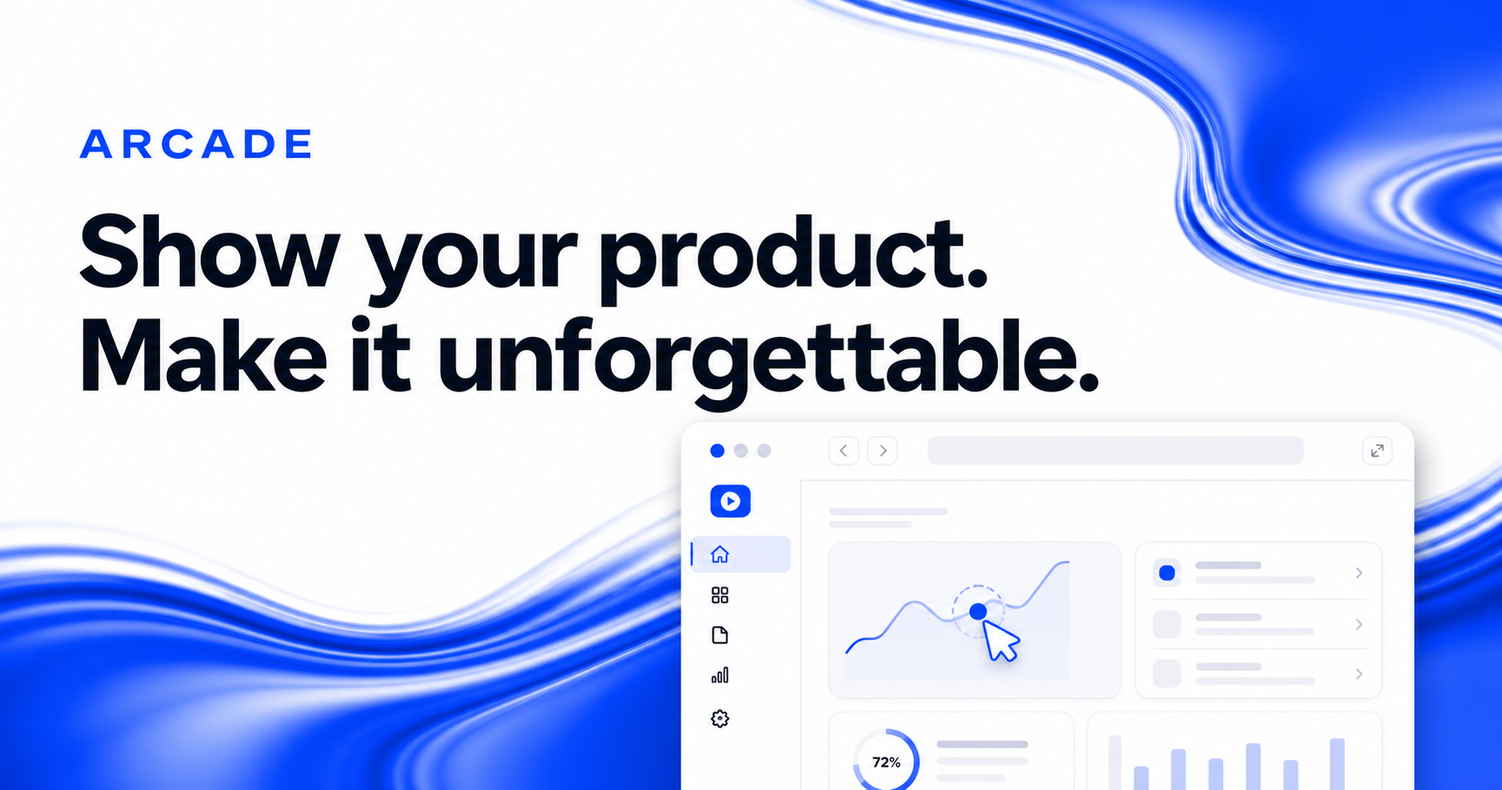
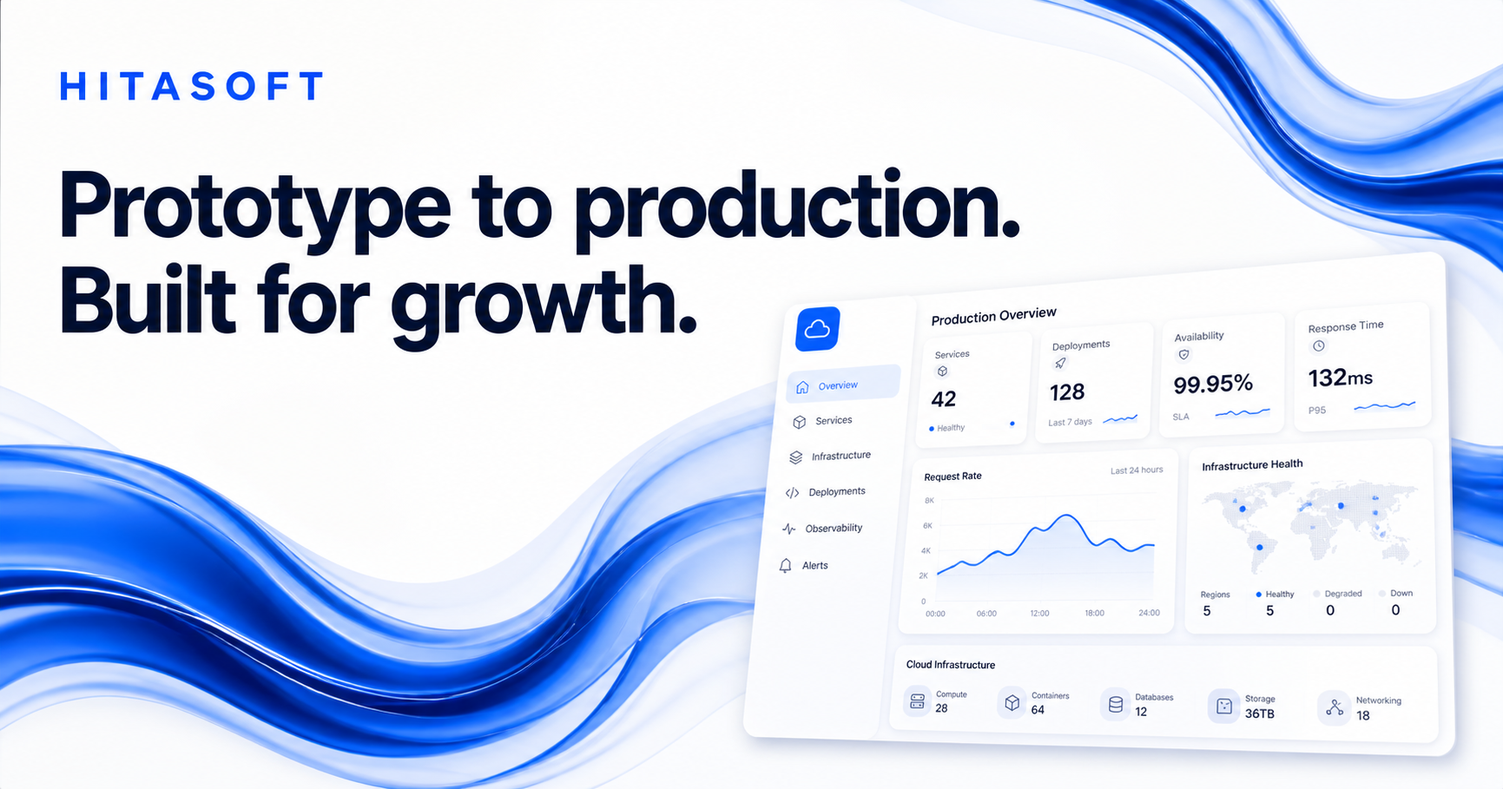
Rebrand site for Hitasoft

diff --git a/app/page.tsx b/app/page.tsx
@@ -10,37 +10,48 @@ const Check = () => <span className="check" aria-hidden="true">✓</span>;
 
 const PlayIcon = () => <span className="play-icon" aria-hidden="true">▶</span>;
 
+const services = [
+  ["01", "Website Development", "Build fast, secure, and scalable websites engineered to deliver seamless user experiences and measurable business growth."],
+  ["02", "Artificial Intelligence Solutions", "Use AI-powered systems to automate processes, uncover insights, and enable better data-driven decisions."],
+  ["03", "Mobile Application Development", "Design and develop high-performance mobile apps that engage users, streamline operations, and scale with your business."],
+  ["04", "Cloud Infrastructure Solutions", "Deploy secure, scalable cloud environments that improve flexibility, optimize costs, and support rapid growth."],
+  ["05", "Custom Software Development", "Create software tailored to your workflows—improving efficiency, automation, flexibility, and long-term productivity."],
+  ["06", "Cybersecurity Services", "Safeguard your digital ecosystem with advanced security frameworks, proactive threat monitoring, and risk mitigation."],
+  ["07", "Data Analytics", "Transform raw data into actionable intelligence that drives strategic planning and competitive advantage."],
+  ["08", "UI/UX Design", "Craft intuitive, visually compelling interfaces that elevate user satisfaction and strengthen brand perception."],
+  ["09", "Server Maintenance & Development", "Ensure maximum uptime and performance with reliable server management, monitoring, and continuous optimization."],
+];
+
 export default function Home() {
   const [mode, setMode] = useState<"demo" | "video">("demo");
-  const [activeTab, setActiveTab] = useState("Create");
+  const [activeTab, setActiveTab] = useState("Software");
   const [url, setUrl] = useState("");
   const [message, setMessage] = useState("");
 
   function submitUrl(event: FormEvent<HTMLFormElement>) {
     event.preventDefault();
-    setMessage(url.trim() ? "Your workspace is ready — let’s build your first Arcade." : "Paste a product link to get started.");
+    setMessage(url.trim() ? "Thank you — our team will get in touch to discuss your project." : "Enter your work email to start a conversation.");
   }
 
   return (
     <main>
       <header className="site-header">
         <nav className="nav-shell" aria-label="Primary navigation">
-          <a className="brand" href="#top" aria-label="Arcade home">
+          <a className="brand" href="#top" aria-label="Hitasoft home">
             <span className="brand-mark"><i /><i /><i /></span>
-            <span>Arcade</span>
+            <span>Hitasoft</span>
           </a>
           <div className="nav-links">
-            <a href="#platform">Platform <span>⌄</span></a>
-            <a href="#solutions">Solutions <span>⌄</span></a>
-            <a href="#resources">Resources <span>⌄</span></a>
-            <a href="#pricing">Pricing</a>
+            <a href="#platform">What we do</a>
+            <a href="#solutions">Services <span>⌄</span></a>
+            <a href="#resources">Why Hitasoft</a>
+            <a href="#pricing">Engagement</a>
           </div>
           <div className="nav-actions">
-            <a className="text-link" href="#login">Log in</a>
-            <a className="button button-ghost nav-sales" href="mailto:sales@arcade.so">Talk to sales</a>
-            <a className="button button-primary" href="#create">Start for free</a>
+            <a className="button button-ghost nav-sales" href="mailto:hello@hitasoft.com">Talk to our team</a>
+            <a className="button button-primary" href="#create">Start a project</a>
           </div>
-          <a className="mobile-cta" href="#create">Start free</a>
+          <a className="mobile-cta" href="#create">Start a project</a>
         </nav>
       </header>
 
@@ -50,33 +61,33 @@ export default function Home() {
         <div className="ripple ripple-three" />
         <div className="hero-content">
           <a className="announcement" href="#resources">
-            <strong>Meet Arcades for teams</strong><span /><em>Explore what’s new</em><Arrow />
+            <strong>Prototype to production</strong><span /><em>Built for ambitious teams</em><Arrow />
           </a>
-          <p className="eyebrow">Interactive product storytelling</p>
-          <h1>Show your product.<br />Make it <span>unforgettable.</span></h1>
-          <p className="hero-copy">Create interactive demos that explain your product in seconds — beautiful, personal, and built to convert.</p>
+          <p className="eyebrow">What we do</p>
+          <h1>Unlock the power of<br /><span>young innovators.</span></h1>
+          <p className="hero-copy">Accelerate your journey from prototype to production. From early technical errors to production-critical challenges, Hitasoft ensures seamless execution at every stage.</p>
 
-          <div className="mode-switch" role="group" aria-label="Choose content type">
-            <button className={mode === "demo" ? "active" : ""} onClick={() => setMode("demo")}><span>◫</span> Interactive demo</button>
-            <button className={mode === "video" ? "active" : ""} onClick={() => setMode("video")}><span>▷</span> Product video</button>
+          <div className="mode-switch" role="group" aria-label="Choose project stage">
+            <button className={mode === "demo" ? "active" : ""} onClick={() => setMode("demo")}><span>◫</span> Prototype support</button>
+            <button className={mode === "video" ? "active" : ""} onClick={() => setMode("video")}><span>▷</span> Production scale</button>
           </div>
 
           <form className="url-form" id="create" onSubmit={submitUrl}>
-            <label className="sr-only" htmlFor="product-url">Product URL</label>
-            <input id="product-url" value={url} onChange={(event) => setUrl(event.target.value)} placeholder={mode === "demo" ? "Paste your product URL" : "Paste a video or product URL"} />
-            <button aria-label="Create your Arcade" type="submit"><Arrow /></button>
+            <label className="sr-only" htmlFor="product-url">Work email</label>
+            <input id="product-url" type="email" value={url} onChange={(event) => setUrl(event.target.value)} placeholder="Enter your work email" />
+            <button aria-label="Start a conversation with Hitasoft" type="submit"><Arrow /></button>
           </form>
-          <p className="form-note" aria-live="polite">{message || "Free forever · No credit card required"}</p>
+          <p className="form-note" aria-live="polite">{message || "A focused engineering team · Clear delivery from day one"}</p>
 
           <div className="hero-demo-wrap">
             <div className="float-card float-left">
               <span className="mini-icon">✦</span>
-              <div><b>AI-powered</b><small>Built in moments</small></div>
+              <div><b>Production ready</b><small>Engineered to scale</small></div>
             </div>
             <div className="browser-frame">
               <div className="browser-bar">
                 <div className="window-dots"><i /><i /><i /></div>
-                <div className="browser-address"><span>⌁</span> arcade.software/share/product-tour</div>
+                <div className="browser-address"><span>⌁</span> console.hitasoft.com/project-health</div>
                 <div className="browser-more">•••</div>
               </div>
               <div className="demo-screen">
@@ -86,51 +97,51 @@ export default function Home() {
                   <div className="side-bottom">⚙</div>
                 </aside>
                 <div className="demo-main">
-                  <div className="demo-top"><div><small>Workspaces / Growth</small><b>Q3 product launch</b></div><button>Share</button></div>
+                  <div className="demo-top"><div><small>Delivery / Production</small><b>Project health dashboard</b></div><button>Deploy</button></div>
                   <div className="demo-canvas">
                     <div className="canvas-head"><span>PROJECT OVERVIEW</span><button>+ Add view</button></div>
-                    <h3>Everything your team needs,<br />in one clear view.</h3>
-                    <div className="mini-stats"><div><small>Active projects</small><b>24</b><em>↑ 12%</em></div><div><small>Tasks completed</small><b>1,842</b><em>↑ 18%</em></div><div><small>Team velocity</small><b>94%</b><em>↑ 8%</em></div></div>
-                    <div className="chart-card"><div className="chart-head"><b>Product adoption</b><span>Last 30 days⌄</span></div><div className="chart-bars">{[34,52,44,70,62,82,72,93,85,100,92,110].map((height, index) => <i key={index} style={{height}} />)}</div></div>
+                    <h3>From prototype uncertainty<br />to production confidence.</h3>
+                    <div className="mini-stats"><div><small>Release score</small><b>73/100</b><em>↑ Stable</em></div><div><small>Systems online</small><b>24</b><em>100% uptime</em></div><div><small>Delivery velocity</small><b>94%</b><em>↑ 8%</em></div></div>
+                    <div className="chart-card"><div className="chart-head"><b>Infrastructure performance</b><span>Last 30 days⌄</span></div><div className="chart-bars">{[34,52,44,70,62,82,72,93,85,100,92,110].map((height, index) => <i key={index} style={{height}} />)}</div></div>
                     <button className="hotspot"><PlayIcon /></button>
-                    <div className="tooltip-card"><b>Start with your overview</b><p>See your team’s progress at a glance.</p><span>1 of 4 <strong>Next →</strong></span></div>
+                    <div className="tooltip-card"><b>Production confidence</b><p>Monitor performance, security, and delivery in one place.</p><span>Live <strong>View report →</strong></span></div>
                   </div>
                 </div>
               </div>
             </div>
-            <div className="float-card metric-float"><span className="trend">↗</span><div><b>38% more signups</b><small>From one interactive demo</small></div></div>
+            <div className="float-card metric-float"><span className="trend">↗</span><div><b>Faster time to market</b><small>Prototype to production</small></div></div>
           </div>
         </div>
       </section>
 
       <section className="logo-strip" aria-label="Customer logos">
-        <p>Loved by modern teams at</p>
-        <div><b>Atlassian</b><b>Notion</b><b>Webflow</b><b>Zapier</b><b>Mercury</b><b>Dropbox</b></div>
+        <p>One technology partner across the full delivery lifecycle</p>
+        <div><b>Strategy</b><b>Design</b><b>Build</b><b>Cloud</b><b>Security</b><b>Scale</b></div>
       </section>
 
       <section className="section intro-section" id="platform">
         <div className="section-heading">
-          <p className="eyebrow">The platform</p>
-          <h2>Your product deserves<br />more than a screenshot.</h2>
-          <p>Build engaging, on-brand experiences that help every buyer understand the value — before they ever book a call.</p>
+          <p className="eyebrow">End-to-end IT solutions</p>
+          <h2>Technology services<br />designed for your growth.</h2>
+          <p>We deliver innovative, scalable, and reliable IT solutions that help businesses operate smarter, grow faster, and stay competitive in a rapidly evolving digital world.</p>
         </div>
-        <div className="pill-tabs" role="tablist" aria-label="Platform features">
-          {["Create", "Personalize", "Share", "Measure"].map((tab) => (
+        <div className="pill-tabs" role="tablist" aria-label="Core service areas">
+          {["Software", "Cloud", "Security", "Integration"].map((tab) => (
             <button key={tab} role="tab" aria-selected={activeTab === tab} className={activeTab === tab ? "active" : ""} onClick={() => setActiveTab(tab)}>{tab}</button>
           ))}
         </div>
         <div className="feature-panel">
           <div className="feature-copy">
             <span className="step-number">01</span>
-            <h3>{activeTab} in minutes, not days.</h3>
-            <p>{activeTab === "Create" ? "Capture your product as you click. Arcade automatically turns each step into a polished, guided story." : activeTab === "Personalize" ? "Adapt every story to the audience, account, or campaign without rebuilding your demo." : activeTab === "Share" ? "Publish everywhere your buyers are — from your website and emails to social and sales rooms." : "See exactly where viewers engage, hesitate, and convert so your next story performs even better."}</p>
-            <div className="check-grid"><span><Check />No-code editor</span><span><Check />Brand themes</span><span><Check />AI copy polish</span><span><Check />Instant publishing</span></div>
-            <a className="inline-link" href="#create">Start creating <Arrow /></a>
+            <h3>{activeTab} built around your goals.</h3>
+            <p>{activeTab === "Software" ? "We design and build scalable, high-performance software tailored to your business goals—enabling flexibility, efficiency, and long-term growth." : activeTab === "Cloud" ? "Transform your operations with secure, scalable cloud architecture that improves performance while reducing operational complexity." : activeTab === "Security" ? "Protect your digital assets with advanced security frameworks, proactive monitoring, and compliance-driven strategies." : "Connect your platforms, tools, and data into a unified ecosystem that improves collaboration and operational efficiency."}</p>
+            <div className="check-grid"><span><Check />Scalable architecture</span><span><Check />Reliable delivery</span><span><Check />Security by design</span><span><Check />Long-term support</span></div>
+            <a className="inline-link" href="#create">Discuss your project <Arrow /></a>
           </div>
           <div className="feature-visual">
             <div className="editor-shell">
-              <div className="editor-top"><span>My product tour</span><div><button>Preview</button><button>Publish</button></div></div>
-              <div className="editor-body"><aside><b>Steps</b>{[1,2,3,4].map(n => <div className={n === 2 ? "selected" : ""} key={n}><i>{n}</i><span /></div>)}</aside><div className="editor-preview"><div className="preview-nav"><i /><i /><i /></div><div className="preview-card"><small>STEP 2</small><h4>Guide attention with hotspots.</h4><p>Add context exactly where it matters.</p><button>Got it</button></div><span className="pulse-dot" /></div></div>
+              <div className="editor-top"><span>Hitasoft delivery workspace</span><div><button>Review</button><button>Deploy</button></div></div>
+              <div className="editor-body"><aside><b>Stages</b>{[1,2,3,4].map(n => <div className={n === 2 ? "selected" : ""} key={n}><i>{n}</i><span /></div>)}</aside><div className="editor-preview"><div className="preview-nav"><i /><i /><i /></div><div className="preview-card"><small>PRODUCTION READINESS</small><h4>Built to perform under pressure.</h4><p>Architecture, security, and monitoring aligned for launch.</p><button>View report</button></div><span className="pulse-dot" /></div></div>
             </div>
           </div>
         </div>
@@ -138,38 +149,36 @@ export default function Home() {
 
       <section className="section alternate" id="solutions">
         <div className="section-heading compact">
-          <p className="eyebrow">Built for every go-to-market team</p>
-          <h2>One product. A hundred stories.</h2>
-          <p>Give every team a better way to show, explain, and sell what you’ve built.</p>
+          <p className="eyebrow">Let’s see what we can do</p>
+          <h2>One team. Every technology challenge.</h2>
+          <p>From strategy to deployment, we deliver reliable solutions that scale with your business and adapt to tomorrow’s challenges.</p>
         </div>
-        <div className="use-case-grid">
-          <article className="use-card large"><div className="card-art sales-art"><div className="message m1"><i>MM</i><span><b>Maya Miller</b><small>Shared an Arcade with Acme</small></span></div><div className="message m2"><span className="play-badge">▶</span><span><b>See how your team can save 8 hours</b><small>Personalized for acme.co</small></span></div><div className="message m3"><span>Viewed 6 minutes ago</span><b>87% completed</b></div></div><span className="card-label">For sales</span><h3>Turn every follow-up into a product moment.</h3><p>Personalize demos for every prospect and let your product move deals forward.</p><a href="#create">Explore sales <Arrow /></a></article>
-          <article className="use-card"><div className="card-art marketing-art"><div className="campaign"><small>CAMPAIGN PERFORMANCE</small><b>12.4k</b><span>Interactive views</span><div className="sparkline"><i/><i/><i/><i/><i/><i/></div><em>+28.4%</em></div></div><span className="card-label">For marketing</span><h3>Make campaigns people want to click.</h3><p>Bring launches, websites, and social to life with immersive product stories.</p><a href="#create">Explore marketing <Arrow /></a></article>
-          <article className="use-card"><div className="card-art enablement-art"><div className="course-list"><div><span>01</span><b>Workspace basics</b><em>Complete</em></div><div className="current"><span>02</span><b>Build your first flow</b><em>6 min</em></div><div><span>03</span><b>Invite your team</b><em>4 min</em></div></div></div><span className="card-label">For enablement</span><h3>Teach once. Let people learn by doing.</h3><p>Replace long docs and training calls with guided, self-serve experiences.</p><a href="#create">Explore enablement <Arrow /></a></article>
+        <div className="services-grid">
+          {services.map(([number, title, description]) => <article className="service-card" key={title}><div className="service-number">{number}</div><h3>{title}</h3><p>{description}</p><a href="#create" aria-label={`Discuss ${title}`}>Explore service <Arrow /></a></article>)}
         </div>
       </section>
 
       <section className="section proof-section" id="resources">
         <div className="proof-grid">
-          <blockquote><span className="quote-mark">“</span><p>Arcade has fundamentally changed how we show our product. Our demos feel premium, our team ships faster, and buyers finally get it right away.</p><footer><div className="avatar">AL</div><div><b>Alex Lee</b><small>VP of Marketing, Daylight</small></div></footer></blockquote>
-          <div className="proof-stats"><div><b>3.2×</b><span>more engaged visitors</span></div><div><b>42%</b><span>shorter sales cycle</span></div><div><b>10 min</b><span>average time to publish</span></div><div><b>12k+</b><span>teams creating with Arcade</span></div></div>
+          <blockquote><span className="quote-mark">“</span><p>We work for passion, not only for money. Every engagement is approached with ownership, technical curiosity, and a commitment to delivering real business value.</p><footer><div className="avatar">HI</div><div><b>Hitasoft Engineering</b><small>Your technology partner from idea to scale</small></div></footer></blockquote>
+          <div className="proof-stats"><div><b>01</b><span>team from prototype to production</span></div><div><b>24/7</b><span>monitoring and dependable support</span></div><div><b>100%</b><span>solutions aligned to your goals</span></div><div><b>∞</b><span>built to adapt as you grow</span></div></div>
         </div>
       </section>
 
       <section className="section pricing-section" id="pricing">
         <div className="final-cta">
           <div className="cta-ripple one" /><div className="cta-ripple two" />
-          <p className="eyebrow light">Ready when you are</p>
-          <h2>Let your product<br />do the talking.</h2>
-          <p>Build your first interactive demo in minutes. Share it everywhere. See what clicks.</p>
-          <div className="cta-actions"><a className="button button-white" href="#create">Start creating for free <Arrow /></a><a className="button button-dark-ghost" href="mailto:sales@arcade.so">Talk to sales</a></div>
-          <small>No credit card required · Free forever plan</small>
+          <p className="eyebrow light">Choose the right team and plan</p>
+          <h2>Scale your company.<br />Not your complexity.</h2>
+          <p>Choose an engagement that fits your needs today and scales effortlessly with your company and project scope.</p>
+          <div className="cta-actions"><a className="button button-white" href="#create">Start a project <Arrow /></a><a className="button button-dark-ghost" href="mailto:hello@hitasoft.com">Talk to our team</a></div>
+          <small>Flexible engagement · Transparent delivery · Long-term partnership</small>
         </div>
       </section>
 
       <footer className="footer">
-        <div className="footer-top"><a className="brand" href="#top"><span className="brand-mark"><i /><i /><i /></span><span>Arcade</span></a><p>Your product, beautifully explained.</p><div className="footer-links"><a href="#platform">Platform</a><a href="#solutions">Solutions</a><a href="#pricing">Pricing</a><a href="#resources">Resources</a></div></div>
-        <div className="footer-bottom"><span>© 2026 Arcade Software, Inc.</span><div><a href="#privacy">Privacy</a><a href="#terms">Terms</a><a href="#security">Security</a><a href="#status">Status</a></div><span className="socials">in&nbsp;&nbsp;𝕏</span></div>
+        <div className="footer-top"><a className="brand" href="#top"><span className="brand-mark"><i /><i /><i /></span><span>Hitasoft</span></a><p>Technology engineered for growth.</p><div className="footer-links"><a href="#platform">What we do</a><a href="#solutions">Services</a><a href="#pricing">Engagement</a><a href="#resources">Why Hitasoft</a></div></div>
+        <div className="footer-bottom"><span>© 2026 Hitasoft Technologies. All rights reserved.</span><div><a href="#privacy">Privacy</a><a href="#terms">Terms</a><a href="#security">Security</a><a href="mailto:hello@hitasoft.com">Contact</a></div><span className="socials">in&nbsp;&nbsp;𝕏</span></div>
       </footer>
     </main>
   );

diff --git a/app/globals.css b/app/globals.css
@@ -8,3 +8,6 @@
 @media(max-width:900px){.nav-links,.nav-sales,.text-link{display:none}.nav-actions{margin-left:auto}.nav-actions .button-primary{display:none}.mobile-cta{display:block;margin-left:auto}.hero{padding-top:48px;min-height:760px}.browser-frame{margin:0 12px}.demo-screen{height:400px}.demo-canvas{padding:20px}.tooltip-card{right:4%}.float-card{display:none}.feature-panel{grid-template-columns:1fr}.feature-copy{padding:45px}.feature-visual{padding:36px;min-height:450px}.use-card.large{display:block}.use-card.large .card-art{height:300px;margin-bottom:24px}.proof-grid{grid-template-columns:1fr}.proof-stats{border-left:0;border-top:1px solid rgba(255,255,255,.1)}}
 @media(max-width:640px){.site-header{height:58px}.nav-shell{padding:0 18px}.brand{font-size:18px}.hero{padding:38px 16px 0;min-height:690px}.announcement em,.announcement span{display:none}.hero h1{font-size:45px}.hero-copy{font-size:16px}.url-form{height:58px}.hero-demo-wrap{margin-top:18px}.browser-frame{margin:0;border-width:4px;border-radius:14px}.browser-bar{height:34px;grid-template-columns:50px 1fr 30px;padding:0 8px}.browser-address{padding:4px 8px;font-size:7px}.demo-screen{height:300px}.demo-sidebar{width:38px;padding:7px 4px}.demo-sidebar button{width:28px;height:28px}.demo-top{height:45px;padding:0 12px}.demo-canvas{padding:12px}.demo-canvas h3{font-size:16px;margin:9px 0}.mini-stats{gap:5px}.mini-stats div{padding:7px}.mini-stats b{font-size:12px;margin:3px 0}.chart-card{height:95px;padding:7px}.chart-bars{height:68px;gap:3px}.tooltip-card{width:130px;padding:8px;top:35%}.tooltip-card b{font-size:8px}.tooltip-card p{font-size:6px;margin:3px 0 6px}.hotspot{width:30px;height:30px;right:42%}.logo-strip{padding:42px 18px}.logo-strip div{display:grid;grid-template-columns:repeat(3,1fr);gap:24px 10px}.logo-strip b{font-size:14px}.section{padding:78px 18px}.section-heading h2{font-size:39px}.section-heading>p:last-child{font-size:16px}.pill-tabs{max-width:100%;overflow:auto;margin-top:36px}.pill-tabs button{padding:9px 13px}.feature-panel{border-radius:16px}.feature-copy{padding:34px 25px}.feature-copy h3{font-size:29px}.check-grid{grid-template-columns:1fr}.feature-visual{padding:24px 14px;min-height:390px}.editor-body{grid-template-columns:70px 1fr;height:285px}.editor-preview{margin:12px}.preview-card{width:150px}.use-case-grid{grid-template-columns:1fr;margin-top:42px}.use-card.large{grid-column:auto}.use-card,.use-card.large{padding:18px 18px 26px}.use-card.large .card-art,.card-art{height:245px}.m2{left:18%;width:70%}.proof-grid blockquote{padding:40px 25px}.proof-grid blockquote>p{font-size:23px}.proof-stats div{padding:25px 20px}.proof-stats b{font-size:28px}.pricing-section{padding-top:0}.final-cta{padding:65px 18px;border-radius:18px}.cta-actions{flex-direction:column;align-items:stretch;max-width:290px;margin:auto}.footer-top{align-items:flex-start;flex-direction:column}.footer-top p{margin:0}.footer-links{display:grid;grid-template-columns:1fr 1fr}.footer-bottom{flex-direction:column;gap:18px}.footer-bottom div{flex-wrap:wrap}.form-note{margin-bottom:16px}}
 @media(prefers-reduced-motion:reduce){*{scroll-behavior:auto!important;transition:none!important}}
+.services-grid{margin-top:60px;display:grid;grid-template-columns:repeat(3,1fr);gap:16px}.service-card{min-height:275px;border:1px solid var(--line);border-radius:16px;padding:28px;background:var(--fog);display:flex;flex-direction:column;position:relative;overflow:hidden;transition:.2s ease}.service-card:after{content:"";position:absolute;width:150px;height:150px;border-radius:50%;right:-75px;top:-75px;background:radial-gradient(circle,rgba(33,66,231,.16),rgba(33,66,231,0) 70%)}.service-card:hover{transform:translateY(-4px);border-color:#cfd5f4;box-shadow:var(--shadow)}.service-number{width:36px;height:36px;border-radius:10px;background:#eef1ff;color:var(--blue);font-size:11px;font-weight:700;display:grid;place-items:center}.service-card h3{font-size:21px;line-height:1.25;letter-spacing:-.02em;margin:24px 0 10px}.service-card p{font-size:14px;line-height:1.6;color:var(--slate);margin:0 0 24px}.service-card a{margin-top:auto;font-size:13px;font-weight:600}.service-card a:hover{color:var(--blue)}
+@media(max-width:900px){.services-grid{grid-template-columns:repeat(2,1fr)}}
+@media(max-width:640px){.services-grid{grid-template-columns:1fr;margin-top:42px}.service-card{min-height:240px;padding:24px}}

diff --git a/app/layout.tsx b/app/layout.tsx
@@ -10,15 +10,15 @@ export async function generateMetadata(): Promise<Metadata> {
   const host = requestHeaders.get("x-forwarded-host") ?? requestHeaders.get("host") ?? "localhost:3000";
   const protocol = requestHeaders.get("x-forwarded-proto") ?? (host.startsWith("localhost") ? "http" : "https");
   const base = new URL(`${protocol}://${host}`);
-  const title = "Arcade — Show your product. Make it unforgettable.";
-  const description = "Create beautiful interactive product demos that explain, engage, and convert.";
+  const title = "Hitasoft — From Prototype to Production";
+  const description = "Scalable software, cloud, AI, cybersecurity, and end-to-end technology solutions designed for business growth.";
 
   return {
     metadataBase: base,
     title,
     description,
     icons: { icon: "/favicon.svg", shortcut: "/favicon.svg" },
-    openGraph: { title, description, type: "website", images: [{ url: "/og.png", width: 1200, height: 630, alt: "Arcade product storytelling platform" }] },
+    openGraph: { title, description, type: "website", images: [{ url: "/og.png", width: 1200, height: 630, alt: "Hitasoft technology services" }] },
     twitter: { card: "summary_large_image", title, description, images: ["/og.png"] },
   };
 }
